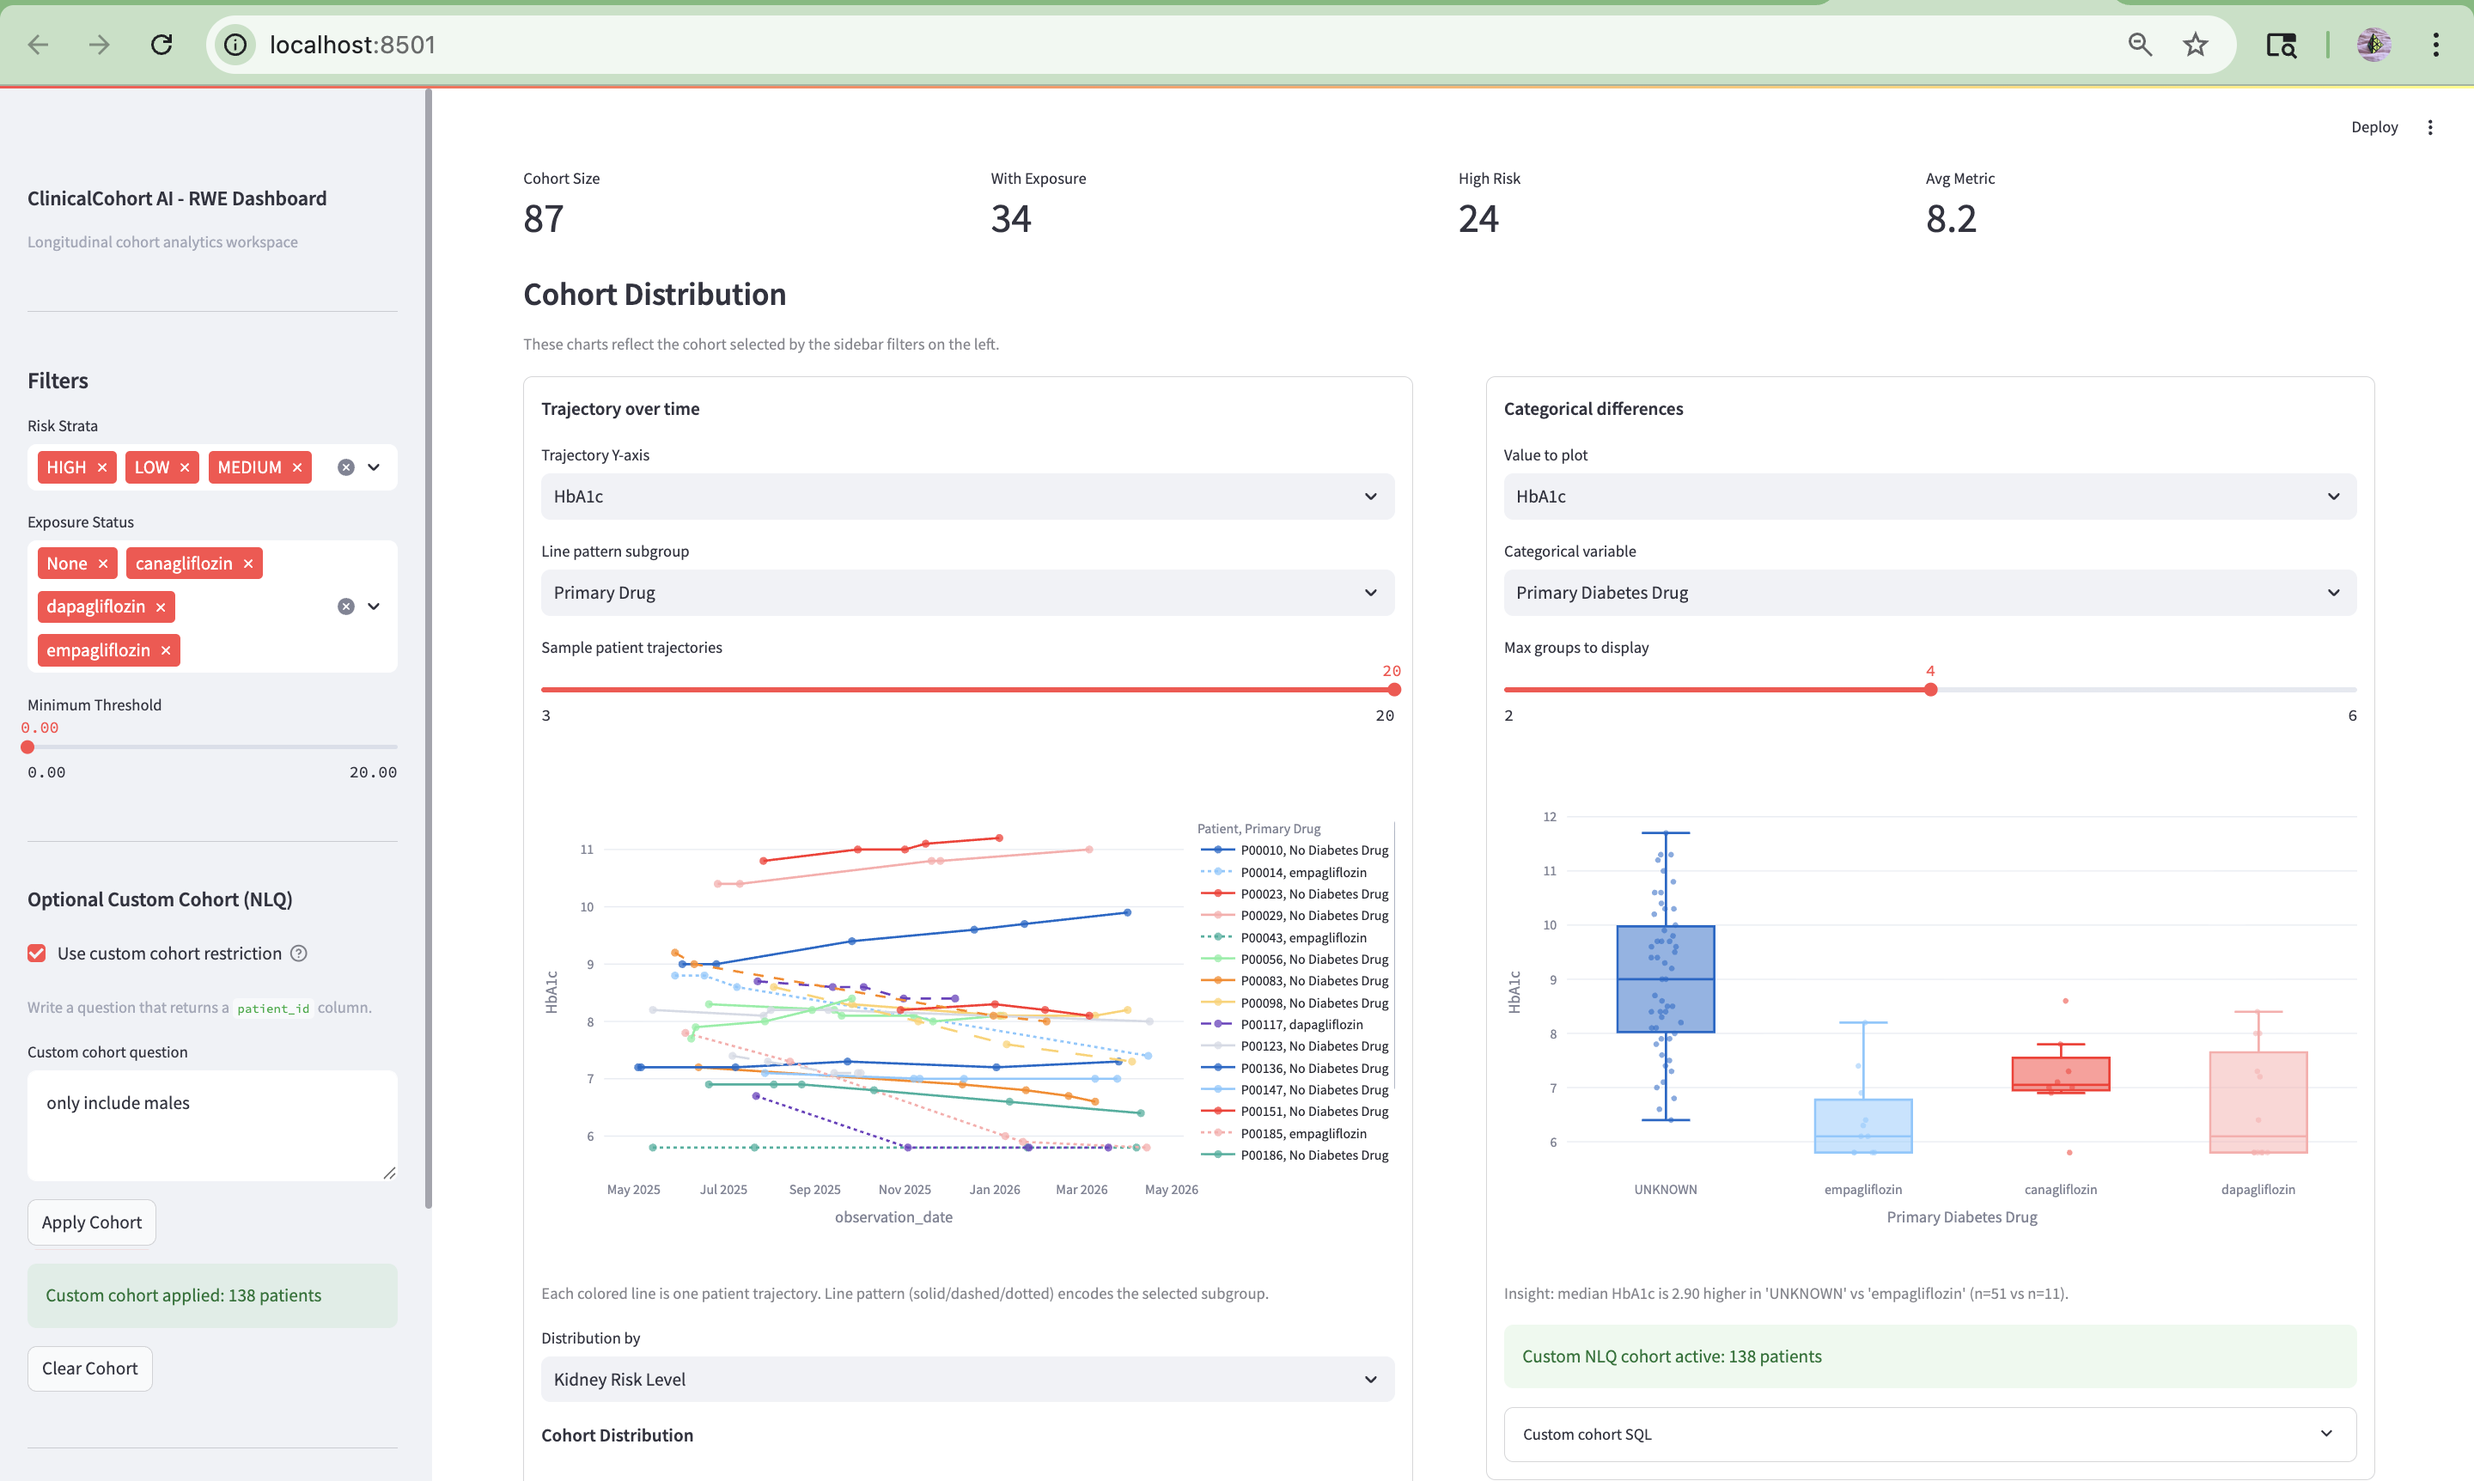
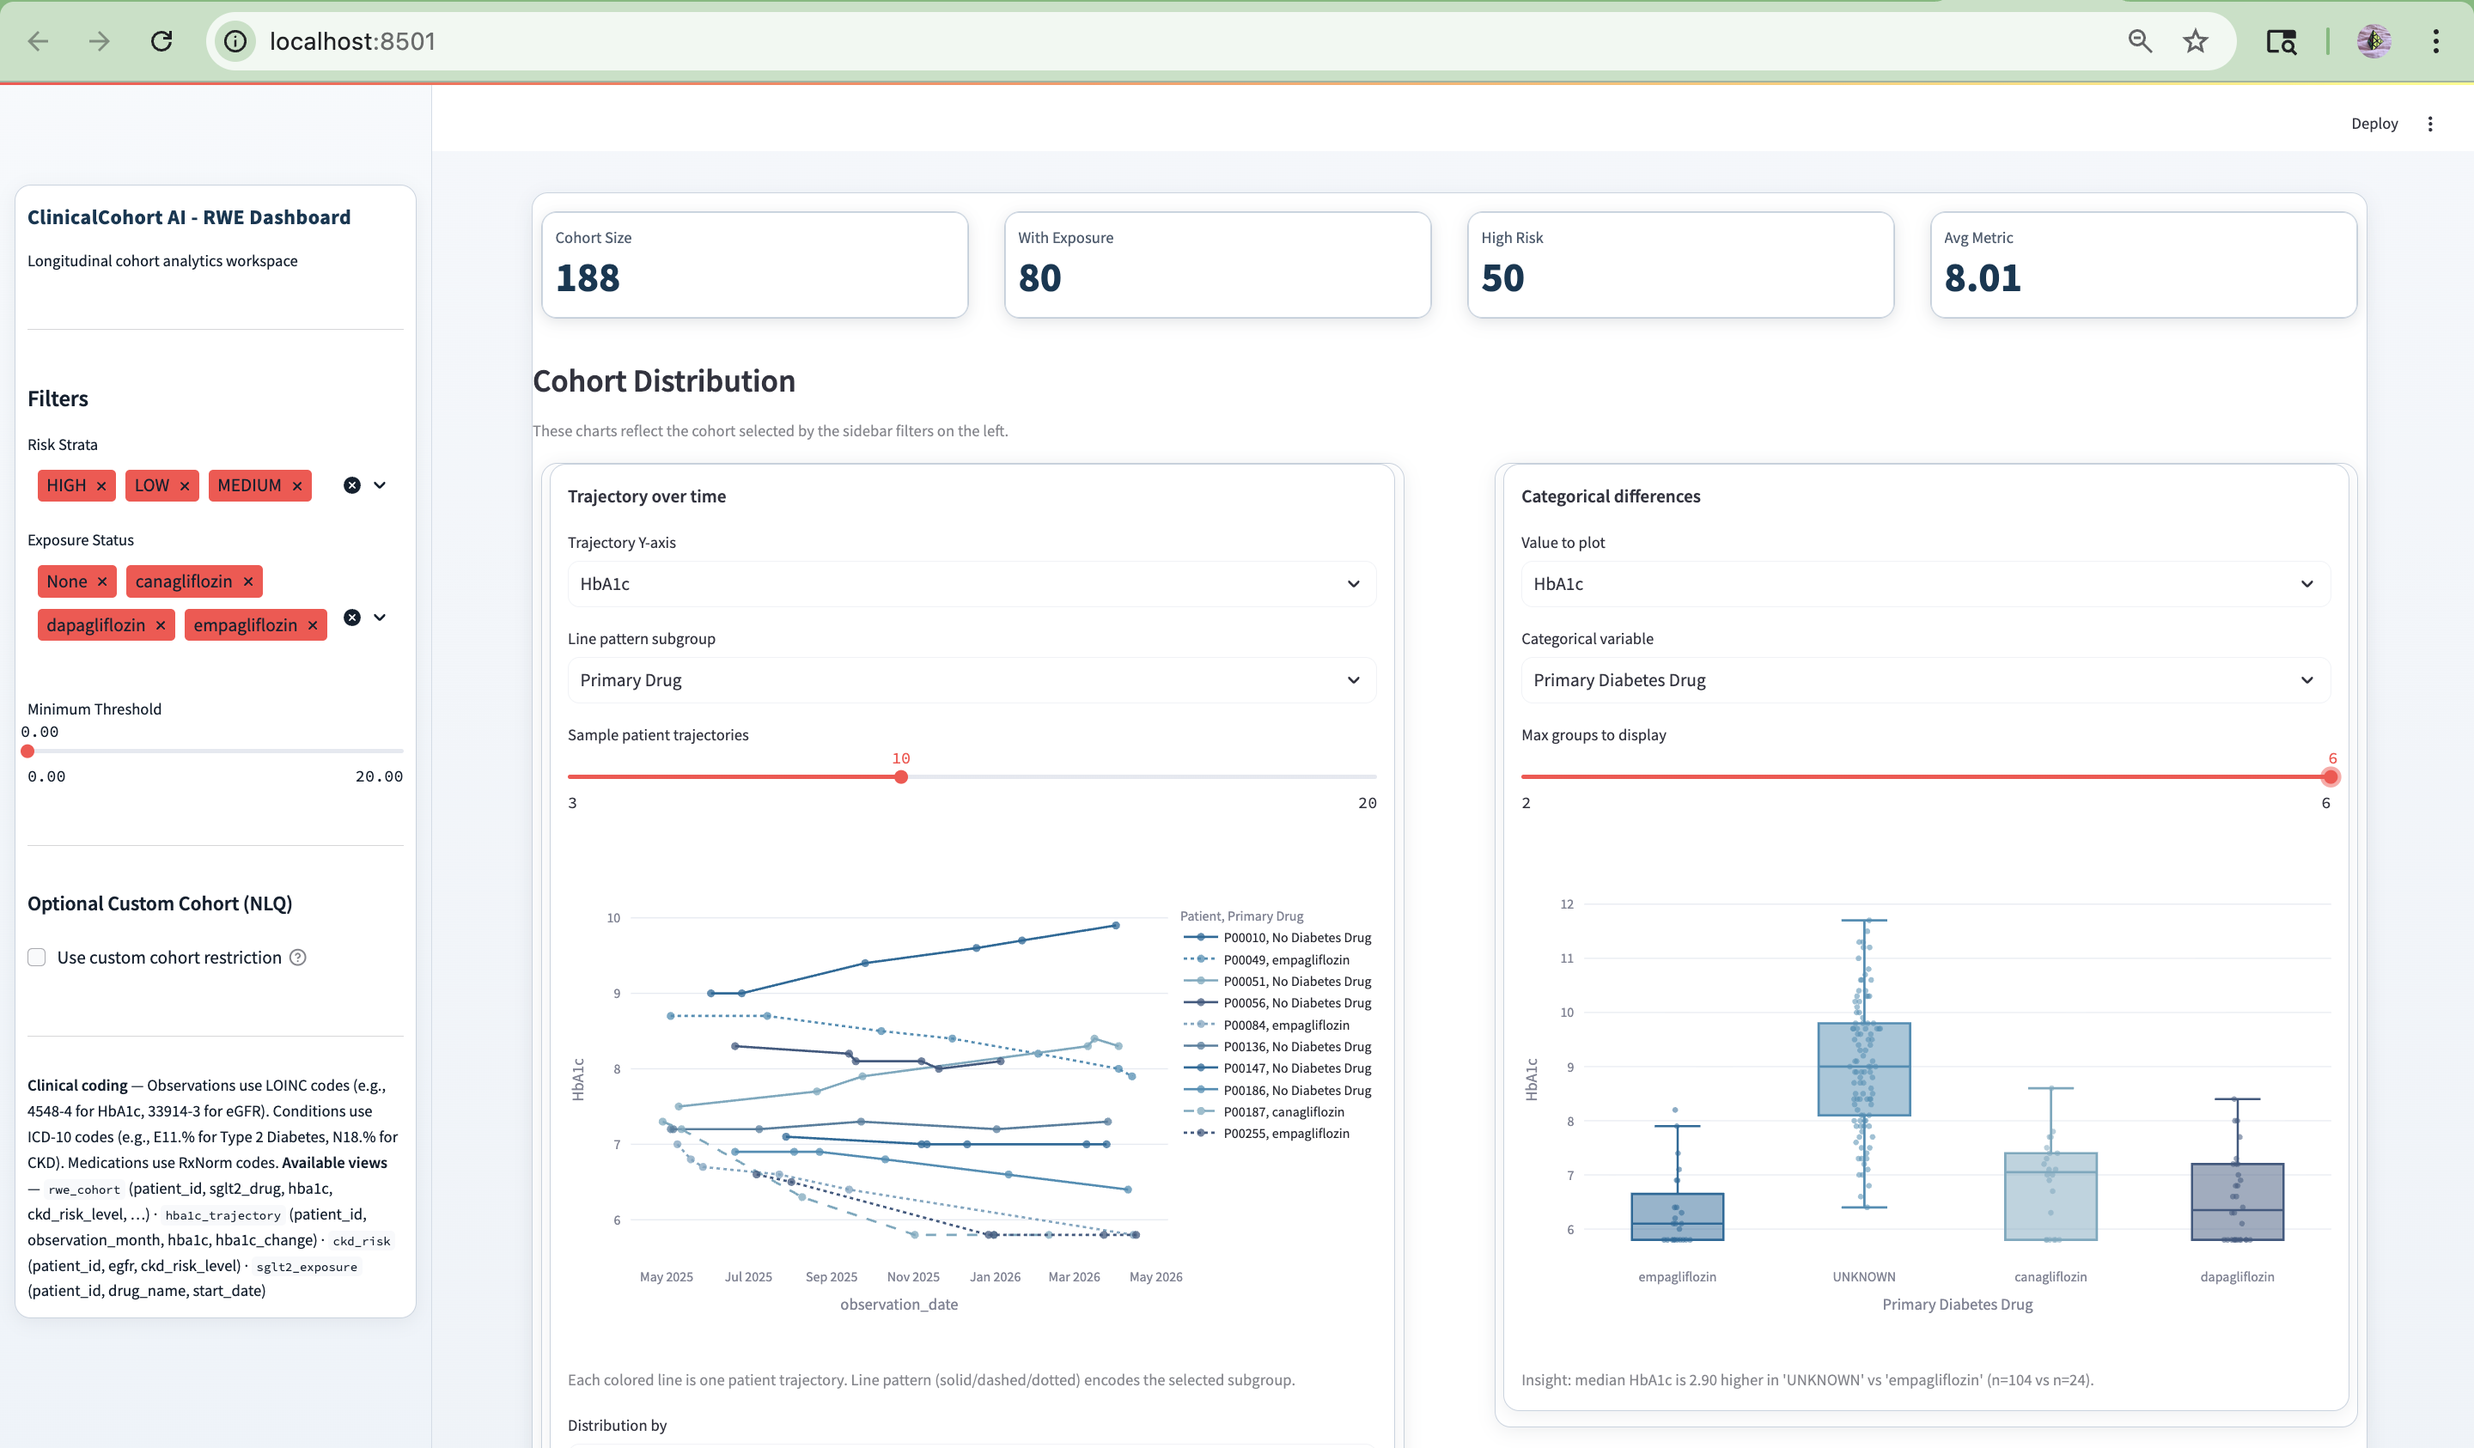
UI polish: improve panel spacing and sidebar frame padding

diff --git a/dashboard/app.py b/dashboard/app.py
@@ -27,9 +27,105 @@ def _connect() -> duckdb.DuckDBPyConnection:
 
 
 st.set_page_config(page_title="ClinicalCohort AI", layout="wide")
-st.title("ClinicalCohort AI - Longitudinal Cohort Dashboard")
+
+st.markdown(
+    """
+    <style>
+    :root {
+        --app-bg-top: #f4f7fb;
+        --app-bg-bottom: #eef3f8;
+        --panel-bg: #ffffff;
+        --panel-border: #c8d3df;
+        --text-main: #12202f;
+        --text-muted: #4d5d70;
+        --accent: #0f6a9a;
+    }
+
+    [data-testid="stAppViewContainer"] {
+        background: linear-gradient(180deg, var(--app-bg-top) 0%, var(--app-bg-bottom) 100%);
+    }
+
+    [data-testid="stSidebar"] {
+        background: linear-gradient(180deg, #f6f9fc 0%, #edf3f9 100%);
+        border-right: 1px solid #d2dce7;
+    }
+
+    [data-testid="stSidebarUserContent"] {
+        padding: 0.4rem 0.35rem 0.8rem 0.35rem;
+    }
+
+    [data-testid="stSidebar"] * {
+        color: var(--text-main);
+    }
+
+    [data-testid="stSidebar"] .stMarkdown h3 {
+        color: #0e3853;
+        letter-spacing: 0.02em;
+        font-weight: 700;
+    }
+
+    .main h1, .main h2, .main h3 {
+        color: var(--text-main);
+    }
+
+    .main p, .main label, .main span, .main li {
+        color: var(--text-main);
+    }
+
+    [data-testid="stVerticalBlockBorderWrapper"] {
+        background: var(--panel-bg);
+        border: 1px solid var(--panel-border);
+        border-radius: 14px;
+        box-shadow: 0 4px 16px rgba(16, 34, 52, 0.07);
+        margin: 0 0.45rem 0.85rem 0.45rem;
+    }
+
+    [data-testid="stSidebar"] [data-testid="stVerticalBlockBorderWrapper"] {
+        margin: 0.2rem 0.45rem 0.95rem 0.45rem;
+        padding: 0.55rem 0.65rem 0.75rem 0.65rem;
+    }
+
+    [data-testid="stMetric"] {
+        background: #ffffff;
+        border: 1px solid #ccd8e3;
+        border-radius: 12px;
+        padding: 0.55rem 0.7rem;
+        box-shadow: 0 2px 10px rgba(10, 29, 46, 0.06);
+    }
+
+    [data-testid="stMetricLabel"] {
+        color: var(--text-muted);
+        font-weight: 600;
+    }
+
+    [data-testid="stMetricValue"] {
+        color: #0e3853;
+        font-weight: 700;
+    }
+
+    div[data-baseweb="select"] > div,
+    [data-baseweb="input"] > div,
+    .stSlider {
+        background: #ffffff;
+        border-radius: 10px;
+    }
+
+    .stAlert {
+        border-radius: 10px;
+    }
+    </style>
+    """,
+    unsafe_allow_html=True,
+)
+
+px.defaults.template = "plotly_white"
+px.defaults.color_discrete_sequence = ["#0f6a9a", "#3f8fb5", "#73a9bf", "#3d5a80", "#7aa6c2", "#4f7f9f"]
 
 conn = _connect()
+
+st.sidebar.markdown("### ClinicalCohort AI - RWE Dashboard")
+st.sidebar.caption("Longitudinal cohort analytics workspace")
+st.sidebar.markdown("---")
 
 risk_options = [
     row[0]
@@ -56,6 +152,10 @@ st.sidebar.header("Filters")
 selected_risk = st.sidebar.multiselect("Risk Strata", options=risk_options, default=risk_options)
 selected_drug = st.sidebar.multiselect("Exposure Status", options=drug_options, default=drug_options)
 min_threshold = st.sidebar.slider("Minimum Threshold", min_value=0.0, max_value=20.0, value=0.0, step=0.1)
+min_metric = min_threshold
+
+# Keep optional dataset-specific block disabled unless explicitly reintroduced.
+is_diabetes130_mode = False
 
 risk_filter = "1=1"
 if selected_risk:
@@ -199,7 +299,7 @@ left_panel = explore_col.container(border=True)
 right_panel = ask_col.container(border=True)
 
 with left_panel:
-
+    st.markdown("**Trajectory over time**")
     if is_diabetes130_mode:
         st.markdown("**Average HbA1c by Primary Diabetes Drug**")
         hba1c_by_drug = conn.execute(
@@ -234,7 +334,6 @@ with left_panel:
         format_func=lambda x: pretty_names.get(x, x),
         key="traj_y_col",
     )
-    st.markdown("**Trajectory over time**")
     subgroup_options = {
         "Primary Drug": "coalesce(r.sglt2_drug, 'No Diabetes Drug')",
         "Kidney Risk": "coalesce(c.ckd_risk_level, 'UNKNOWN')",
@@ -373,6 +472,7 @@ with left_panel:
     )
 
 with right_panel:
+    st.markdown("**Categorical differences**")
 
     if not value_candidates or not category_candidates:
         st.info("No compatible value/category columns found in rwe_cohort for this visualization.")
